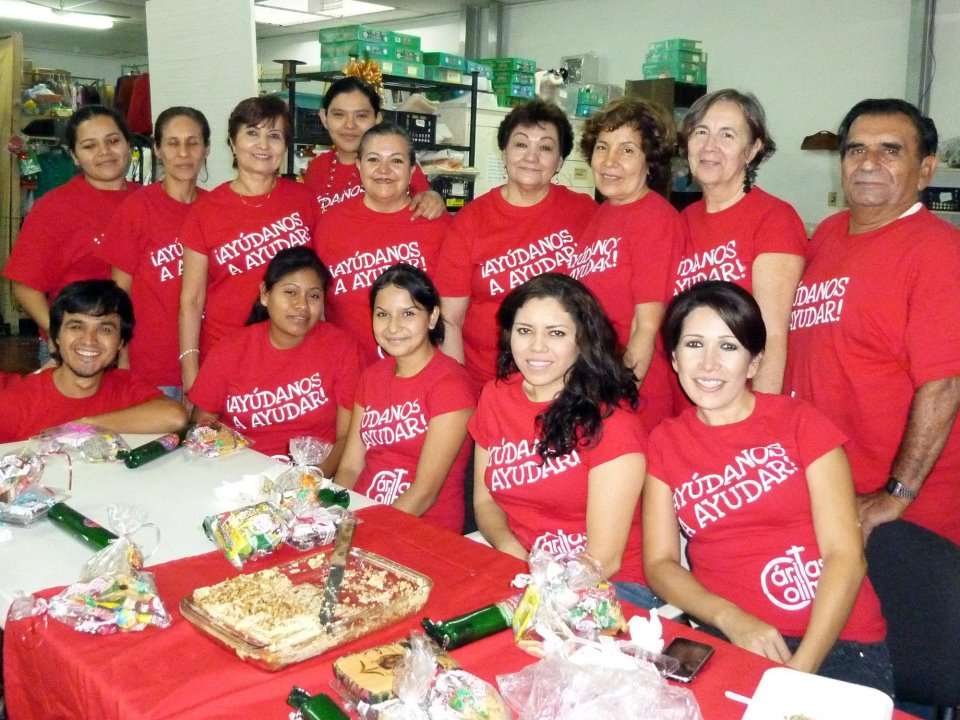
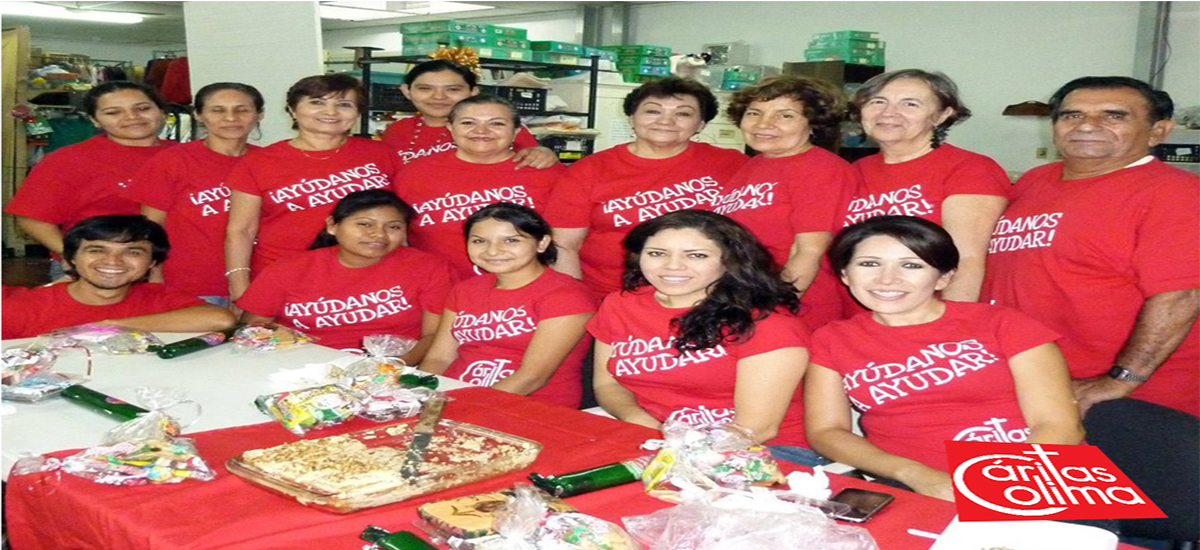
Carusel funcional
Era porblema de las imagenes, tenian que estar del mismo tamaño

diff --git a/Partials/carrusel.php b/Partials/carrusel.php
@@ -1,3 +1,14 @@
+<style type="text/css">
+
+  html,body {
+			overflow:hidden;
+    }
+    
+}
+
+    
+  
+	</style>
 <div id="carouselExampleIndicators" class="carousel slide" data-ride="carousel" >
 <ol class="carousel-indicators">
   <li data-target="#carouselExampleIndicators" data-slide-to="0" class="active"></li>
@@ -9,38 +20,33 @@
 </ol>
 <div class="carousel-inner">
   <div class="carousel-item active" style="height: 100vh">
-  <img class="d-block w-100" src="../Pictures/Ca1.jpg" alt="First slide">
+  <img class="d-block w-100" src="../Pictures/Ca1-2.jpg" alt="First slide">
   <div class="carousel-caption d-none d-md-block">
-    <h5>Cáritas Colima</h5>
-    <p>Suministro de alimentos</p>
+    <p></p>
     </div>
     </div>
     <div class="carousel-item" style="height: 100vh">
   <img class="d-block w-100" src="../Pictures/Ca2.jpg" alt="Second slide">
   <div class="carousel-caption d-none d-md-block">
-  <h5>Cáritas Colima</h5>
-  <p>bla bla bla</p>
+  <p></p>
 </div>
 </div>
 <div class="carousel-item" style="height: 100vh">
   <img class="d-block w-100" src="../Pictures/Ca3.jpg" alt="Second slide">
   <div class="carousel-caption d-none d-md-block">
-    <h5>Cáritas Colima</h5>
-    <p>bla bla bla</p>
+    <p></p>
     </div>
     </div>
 <div class="carousel-item" style="height: 100vh">
   <img class="d-block w-100" src="../Pictures/Ca5.jpg" alt="Second slide">
   <div class="carousel-caption d-none d-md-block">
-    <h5>Cáritas Colima</h5>
-    <p>bla bla bla</p>
+    <p></p>
     </div>
      </div>
     <div class="carousel-item" style="height: 100vh">
   <img class="d-block w-100" src="../Pictures/Ca4.jpg" alt="Third slide">
   <div class="carousel-caption d-none d-md-block">
-  <h5>Cáritas Colima</h5>
-  <p>bla bla</p>
+  <p></p>
 </div>
     </div>
     </div>
@@ -53,3 +59,6 @@
        <span class="sr-only">Next</span>
       </a>
   </div>
+
+
+

diff --git a/Views/Menu.php b/Views/Menu.php
@@ -6,11 +6,7 @@
 	<meta charset="UTF-8">
 	<title>Menú Principal</title>
 	<?php require '../Partials/hojaEstilos.php'; ?>
-	<style type="text/css">
-		html,body {
-			overflow:hidden;
-		}
-	</style>
+
 </head>
 
 <body>

diff --git a/Models/checarCredenciales.php b/Models/checarCredenciales.php
@@ -7,6 +7,6 @@
 		exit;
 	}
 
-	$conexion = mysqli_connect('localhost', 'root', '', 'caritascolima', 3306);
+	$conexion = mysqli_connect('localhost', 'root', 'root', 'caritascolima', 3307);
 
  ?>

diff --git a/Models/database.php b/Models/database.php
@@ -1,8 +1,8 @@
 <?php
 
-$server = 'localhost: 3306';
+$server = 'localhost: 3307';
 $username = 'root';
-$password = '';
+$password = 'root';
 $database = 'caritascolima';
 
 try {
